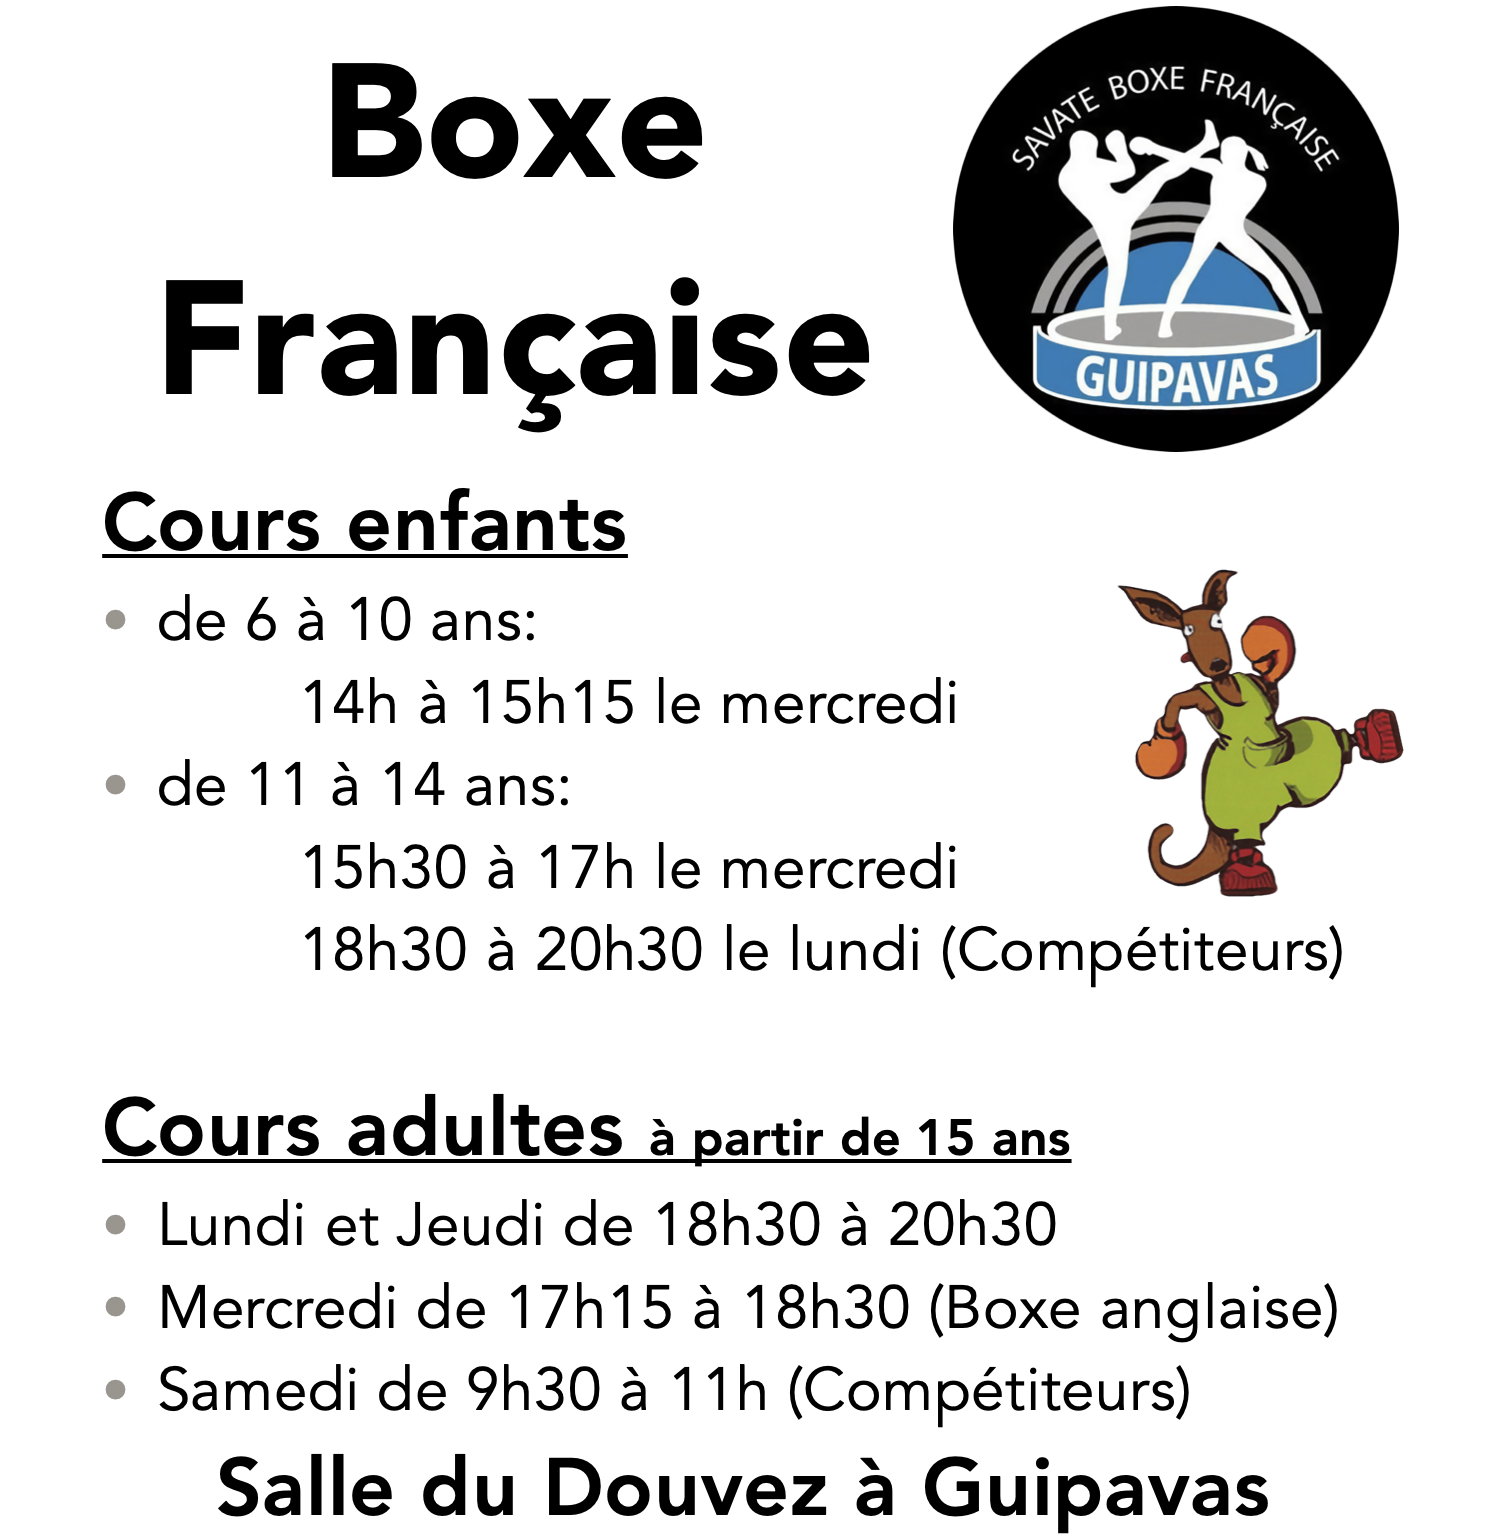
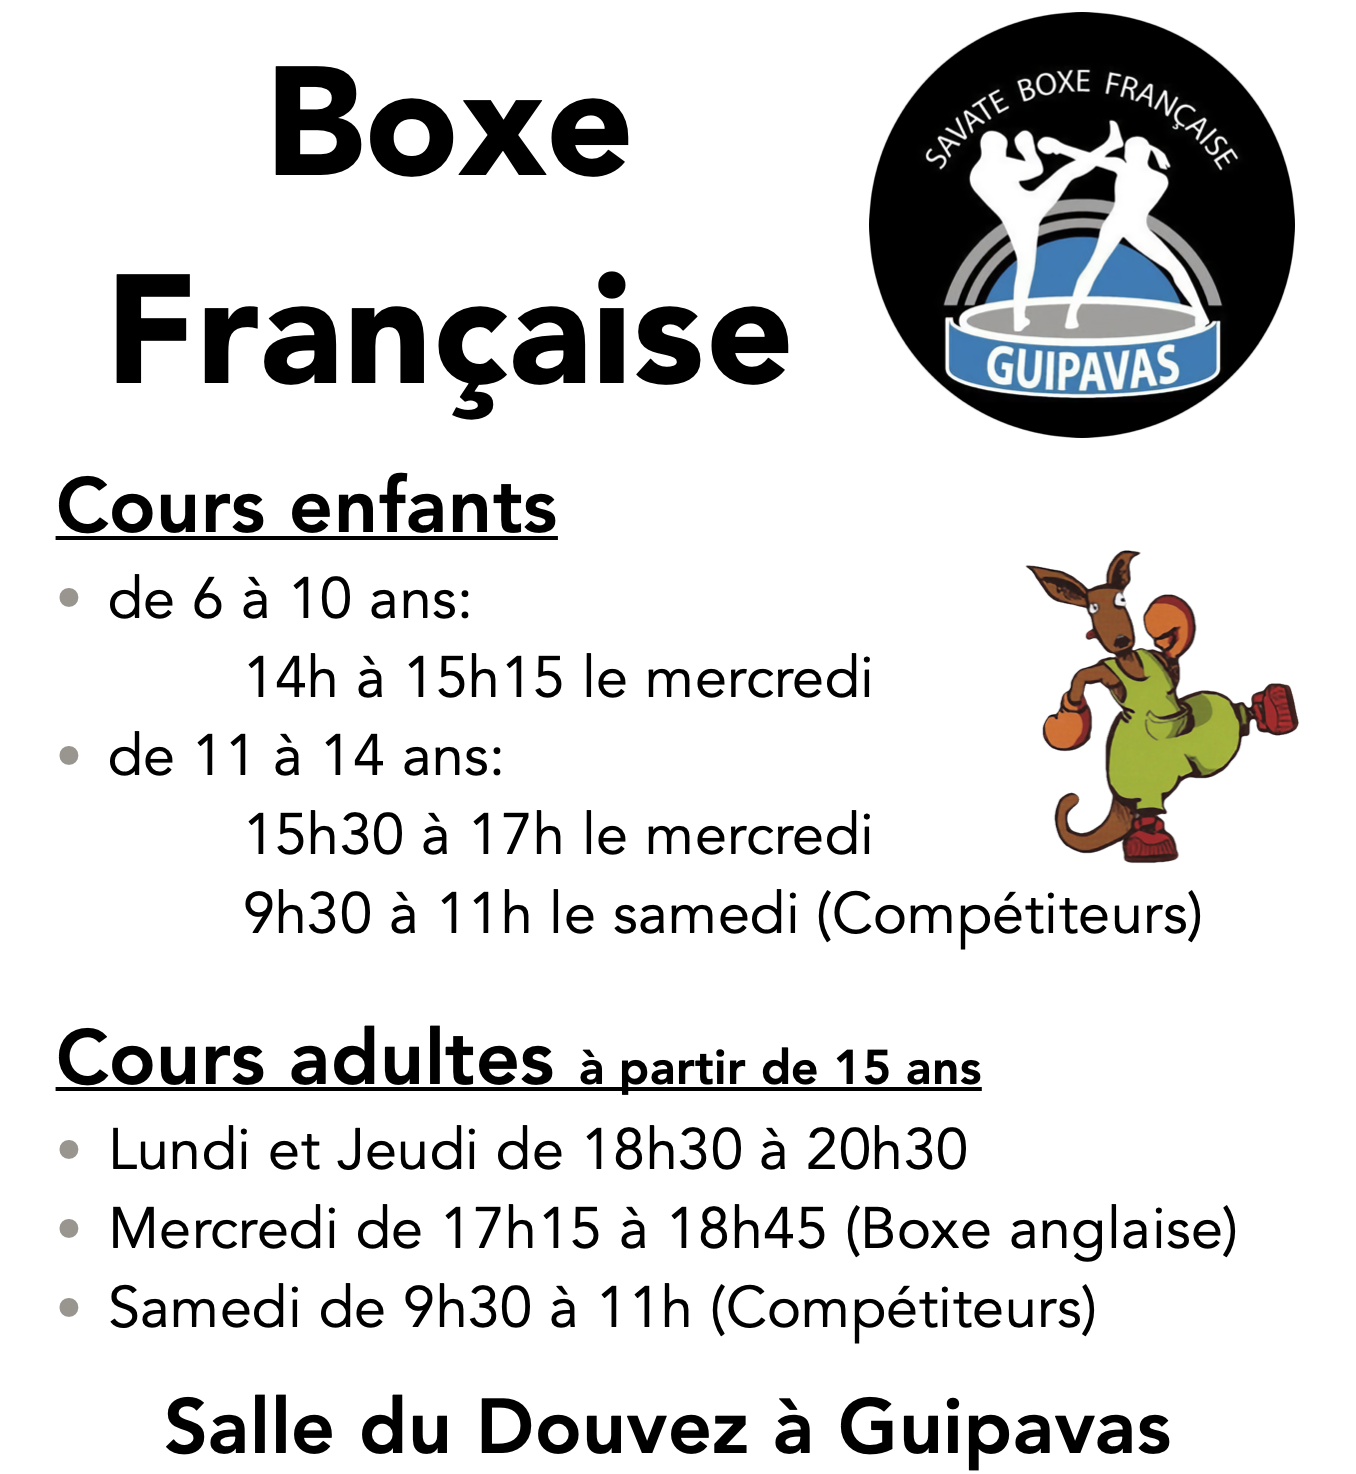
Mise à jour des horaires

diff --git a/_includes/horaires.html b/_includes/horaires.html
@@ -10,7 +10,7 @@
     <ul class="menu-list">
         <li><a style="cursor: default"><span class="has-text-weight-bold">14h à 15h15</span><br />De 6 à 10 ans</a></li>
         <li><a style="cursor: default"><span class="has-text-weight-bold">15h30 à 17h</span><br />De 11 à 14 ans</a></li>
-        <li><a style="cursor: default"><span class="has-text-weight-bold">17h15 à 18h30</span><br />Boxe anglaise</a></li>
+        <li><a style="cursor: default"><span class="has-text-weight-bold">17h15 à 18h45</span><br />Boxe anglaise</a></li>
     </ul>
 
     <p class="menu-label">Jeudi</p>
@@ -20,7 +20,8 @@
 
     <p class="menu-label">Samedi</p>
     <ul class="menu-list">
-        <li><a style="cursor: default"><span class="has-text-weight-bold">9h30 à 11h00</span><br />Compétiteurs</a></li>
+        <li>
+            <a style="cursor: default"><span class="has-text-weight-bold">9h30 à 11h00</span><br />Compétiteurs <br/> Adultes et Ados</a></li>
     </ul>
 
     <p class="menu-label">Salle</p>
